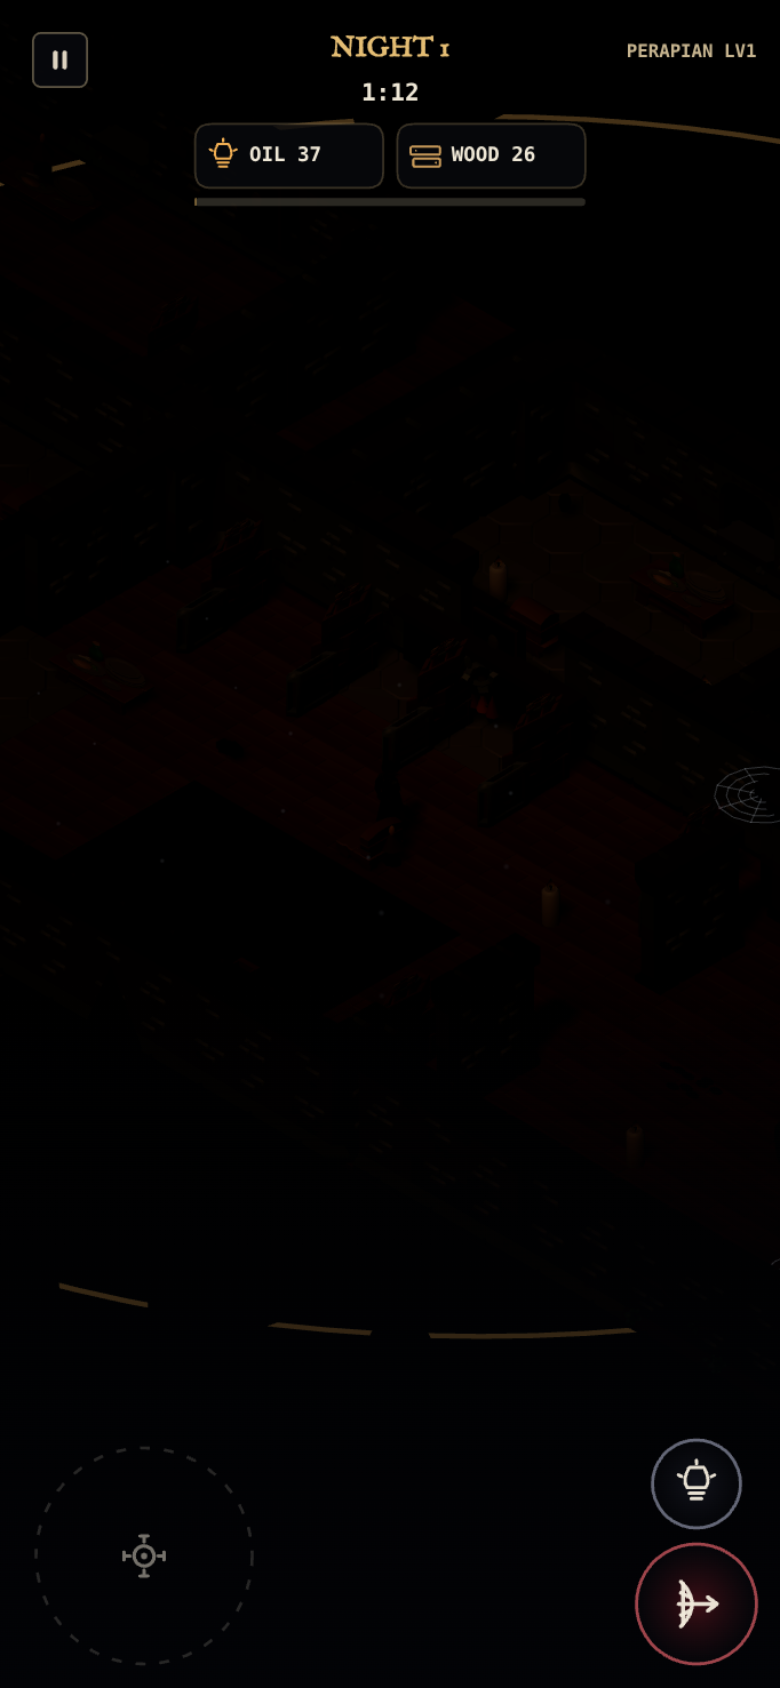
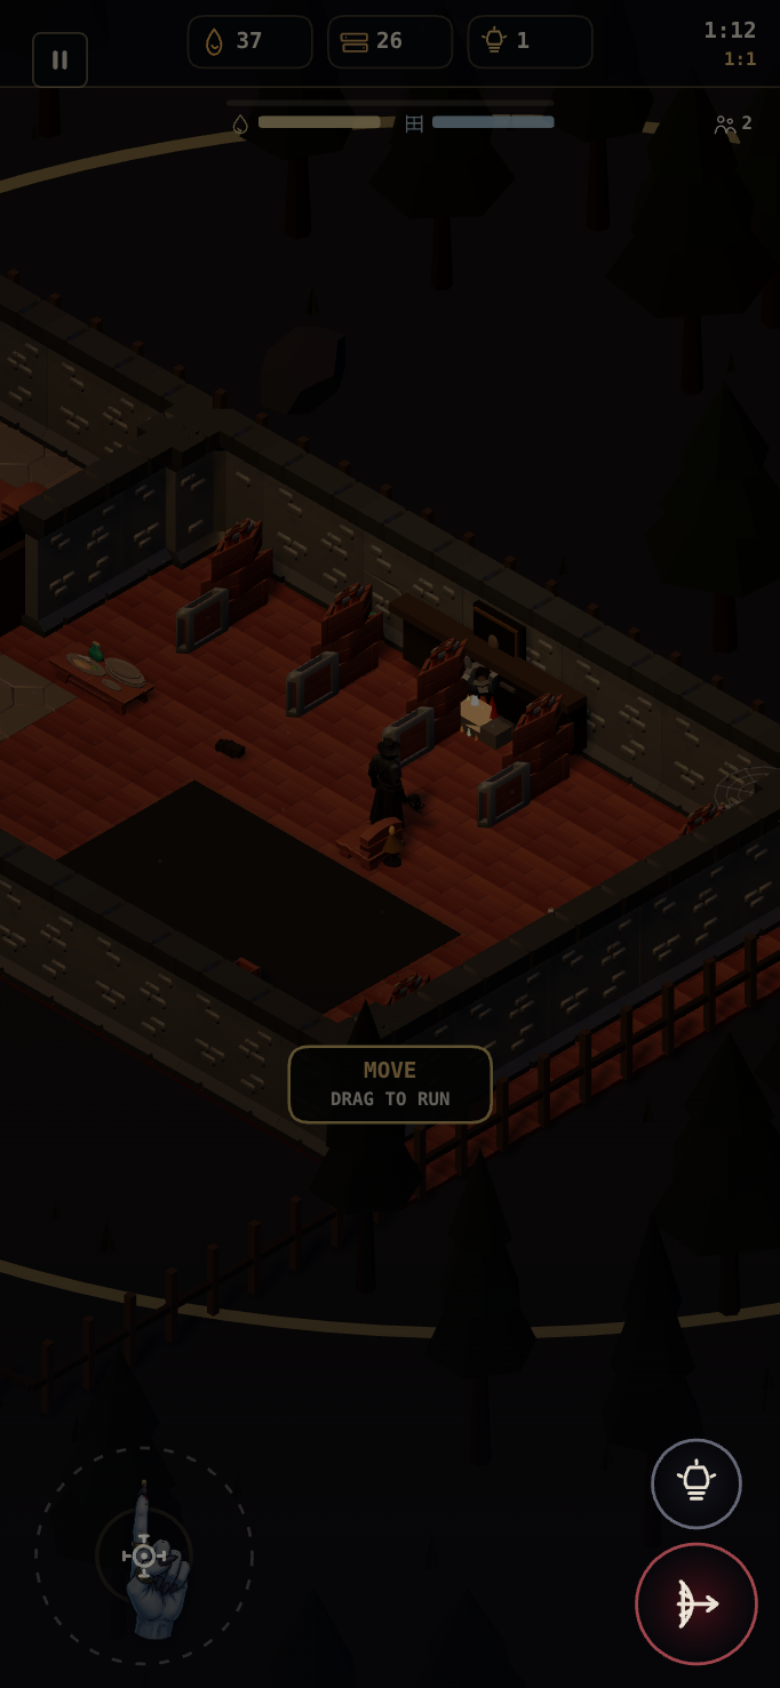
Lock Duskhold's story and prove dawn flips to day.
Night 1 now reaches Day 2 on the clock; buildings are jobs (oil still,
timber yard, sick ward, watch) instead of matching cottages. Frame
capture covers night, dawn, and a built lot.

diff --git a/src/game/survival.js b/src/game/survival.js
@@ -1,9 +1,18 @@
-/* LAST NIGHT — Milestone 1 survival-building loop
+/* DUSKHOLD — Milestone 1 survival-building loop
  *
- * This mode is deliberately isolated from the original hunt/night systems.
- * It keeps the existing Mansion, Player, CrowdBody, enemy damage hooks, Hunter
- * shot, GLB rigs, and 3D room/light pipeline, but owns its own day/phase save,
- * resources, builder queue, night waves, and rewards.
+ * STORY (the design the buildings and loop have to serve)
+ * You are the last Hearthkeeper of Duskhold, a plague-gutted asylum keep.
+ * The wardens fled. You stayed: lantern on the hip, repeating shot, one fire.
+ * The dead come at dusk. They fear only that light.
+ *
+ *   Night — hold the gate. Shoot, flare, feed oil. If you fall or the hearth
+ *           dies, the last light goes out.
+ *   Dawn  — the infected fall back and camp beyond the palisade. Grey day.
+ *           Walk the lot. Tap a plot. Raise what the keep actually needs.
+ *   Stake — three nights. Crew you shelter live or die with the fire.
+ *
+ * Buildings are jobs, not cottages: Oil Still (fuel), Timber Yard (palisade),
+ * Sick Ward (crew), Watch (eyes on the road), Hearth Keep, Gate.
  */
 
 import { clamp, damp, dist, rand, writeSave } from '../core/util.js';
@@ -23,9 +32,9 @@ const DOOR_LABELS = Object.freeze({
 });
 
 export const SURVIVAL_BUILDINGS = Object.freeze({
-  extractor: Object.freeze({ id: 'extractor', label: 'OIL PRESS', oil: 2, wood: 10, seconds: 7, produces: { oil: 6 } }),
-  sawmill: Object.freeze({ id: 'sawmill', label: 'LUMBER YARD', oil: 2, wood: 10, seconds: 7, produces: { wood: 7 } }),
-  shelter: Object.freeze({ id: 'shelter', label: 'CREW DORM', oil: 4, wood: 14, seconds: 9, produces: { survivors: 1 } }),
+  extractor: Object.freeze({ id: 'extractor', label: 'OIL STILL', oil: 2, wood: 10, seconds: 7, produces: { oil: 6 } }),
+  sawmill: Object.freeze({ id: 'sawmill', label: 'TIMBER YARD', oil: 2, wood: 10, seconds: 7, produces: { wood: 7 } }),
+  shelter: Object.freeze({ id: 'shelter', label: 'SICK WARD', oil: 4, wood: 14, seconds: 9, produces: { survivors: 1 } }),
   watch: Object.freeze({ id: 'watch', label: 'WATCH TOWER', oil: 4, wood: 12, seconds: 8 }),
 });
 
@@ -33,24 +42,24 @@ export const SURVIVAL_START_ROOMS = Object.freeze(['hall', 'library']);
 
 /** Adjacent plots the keep can grow into. A building both unlocks the room and gives it a job. */
 export const SURVIVAL_WINGS = Object.freeze([
-  Object.freeze({ roomId: 'dining', requires: Object.freeze(['hall']), label: 'DINING WING' }),
-  Object.freeze({ roomId: 'study', requires: Object.freeze(['hall']), label: 'STUDY' }),
-  Object.freeze({ roomId: 'oratory', requires: Object.freeze(['library']), label: 'CREW DORM' }),
-  Object.freeze({ roomId: 'kitchen', requires: Object.freeze(['dining']), label: 'KITCHEN' }),
-  Object.freeze({ roomId: 'basement', requires: Object.freeze(['hall']), label: 'CELLAR' }),
+  Object.freeze({ roomId: 'dining', requires: Object.freeze(['hall']), label: 'SICK WARD', accepts: Object.freeze(['shelter']) }),
+  Object.freeze({ roomId: 'study', requires: Object.freeze(['hall']), label: 'STUDY', accepts: Object.freeze(['shelter']) }),
+  Object.freeze({ roomId: 'oratory', requires: Object.freeze(['library']), label: 'CREW DORM', accepts: Object.freeze(['shelter']) }),
+  Object.freeze({ roomId: 'kitchen', requires: Object.freeze(['dining']), label: 'KITCHEN', accepts: Object.freeze(['shelter']) }),
+  Object.freeze({ roomId: 'basement', requires: Object.freeze(['hall']), label: 'OIL CELLAR', accepts: Object.freeze(['extractor']) }),
 ]);
 
-/** Outdoor Doomsday-style plots in front of the keep. Not rooms. */
+/** Outdoor jobs in front of the keep. One plot, one job. */
 export const SURVIVAL_YARD = Object.freeze([
   Object.freeze({
-    id: 'yard-lumber', name: 'LUMBER YARD', kind: 'yard',
+    id: 'yard-lumber', name: 'TIMBER YARD', kind: 'yard',
     x: -240, y: 700, w: 210, h: 170,
-    accepts: Object.freeze(['extractor', 'sawmill']),
+    accepts: Object.freeze(['sawmill']),
   }),
   Object.freeze({
-    id: 'yard-oil', name: 'OIL PRESS', kind: 'yard',
+    id: 'yard-oil', name: 'OIL STILL', kind: 'yard',
     x: 980, y: 700, w: 210, h: 170,
-    accepts: Object.freeze(['extractor', 'sawmill']),
+    accepts: Object.freeze(['extractor']),
   }),
   Object.freeze({
     id: 'yard-watch', name: 'WATCH', kind: 'yard',
@@ -537,7 +546,9 @@ export class SurvivalMode {
     const plot = this.plotById(roomId);
     if (!plot || this.buildings[plot.id]) return false;
     if (plot.kind === 'yard') return (plot.accepts || []).includes(type);
-    return type === 'extractor' || type === 'sawmill' || type === 'shelter';
+    const wing = SURVIVAL_WINGS.find((item) => item.roomId === plot.id);
+    if (wing && wing.accepts) return wing.accepts.includes(type);
+    return type === 'shelter';
   }
 
   _syncHouse() {
@@ -656,7 +667,7 @@ export class SurvivalMode {
     this.skillCooldown = Math.max(0, this.skillCooldown - dt);
     this.skillFlash = Math.max(0, this.skillFlash - dt);
     this.feedCd = Math.max(0, (this.feedCd || 0) - dt);
-    if (this.phase === 'night' && g.screen === 'playing' && !g.uiPanel) this.updateNight(dt);
+    if (this.phase === 'night' && g.screen === 'playing' && !g.paused) this.updateNight(dt);
     else if (this.phase === 'day' && g.screen === 'playing') this.updateDay(dt);
     else {
       g.mansion.update(dt, g);
@@ -1400,8 +1411,8 @@ export class SurvivalMode {
     this.wood = clamp(this.wood + wood, 0, RESOURCE_CAP);
     this.nightsCompleted = Math.min(3, this.nightsCompleted + 1);
     this.lastRewards = { oil, wood, kills: this.nightStats.kills, walls: this.nightStats.damageToWalls };
-    g.showMessage(`DAWN · +${Math.round(oil)} OIL · +${Math.round(wood)} WOOD · ${this.nightStats.kills} KILLS`, {
-      tone: 'gold', life: 4.4, key: 'survival-dawn',
+    g.showMessage(`DAWN. THE DEAD FALL BACK. +${Math.round(oil)} OIL · +${Math.round(wood)} WOOD`, {
+      tone: 'gold', life: 4.6, key: 'survival-dawn',
     });
     g.enemies.length = 0;
     g.bolts.length = 0;

diff --git a/src/game/world3d.js b/src/game/world3d.js
@@ -806,25 +806,27 @@ class World3DRuntime {
       group.add(mesh);
       return mesh;
     };
-    const house = (bw, bh, bd, roofH) => {
-      add(new THREE.BoxGeometry(bw + 16, 8, bd + 16), stone, 0, 4, 0);
-      add(new THREE.BoxGeometry(bw, bh, bd), timber, 0, 8 + bh / 2, 0);
-      add(new THREE.ConeGeometry(Math.max(bw, bd) * 0.72, roofH, 4), roof, 0, 8 + bh + roofH / 2, 0, 0, Math.PI / 4, 0);
-      add(new THREE.BoxGeometry(18, 34, 4), plank, 0, 25, bd / 2 + 1);
-    };
+    const linen = new THREE.MeshStandardMaterial({ color: 0x7a3a38, roughness: 1, flatShading: true });
     if (type === 'extractor') {
-      house(110, 58, 86, 42);
-      add(new THREE.CylinderGeometry(22, 26, 40, 10), oil, 48, 28, -8);
-      add(new THREE.CylinderGeometry(6, 8, 110, 6), iron, 48, 88, -8);
-      add(new THREE.BoxGeometry(8, 8, 54), iron, 48, 132, 8);
-      add(new THREE.BoxGeometry(64, 10, 10), iron, 18, 70, -8);
-      add(new THREE.BoxGeometry(14, 18, 6), warm, -22, 40, 44);
+      add(new THREE.BoxGeometry(58, 14, 58), stone, 0, 7, 0);
+      add(new THREE.BoxGeometry(48, 44, 48), stone, 0, 36, 0);
+      add(new THREE.CylinderGeometry(16, 18, 28, 10), oil, 0, 70, 0);
+      add(new THREE.TorusGeometry(16, 3.2, 6, 14), iron, 26, 62, 0, 0, 0, Math.PI / 2);
+      add(new THREE.CylinderGeometry(5, 7, 64, 6), iron, 0, 108, 0);
+      add(new THREE.CylinderGeometry(11, 13, 20, 10), oil, -38, 12, 18);
+      add(new THREE.CylinderGeometry(11, 13, 20, 10), oil, -38, 12, -16);
+      add(new THREE.CylinderGeometry(11, 13, 20, 10), oil, 38, 12, 14);
+      add(new THREE.BoxGeometry(22, 10, 14), stone, 0, 16, 32);
+      add(new THREE.BoxGeometry(10, 14, 6), warm, 0, 42, 26);
     } else if (type === 'sawmill') {
-      house(150, 54, 78, 38);
-      add(new THREE.CylinderGeometry(28, 28, 10, 14), iron, 78, 34, 0, 0, 0, Math.PI / 2);
-      add(new THREE.TorusGeometry(30, 4, 6, 16), iron, 78, 34, 0, 0, 0, Math.PI / 2);
-      for (let i = 0; i < 3; i++) add(new THREE.CylinderGeometry(9, 9, 52, 8), plank, -40 + i * 22, 14, 52, 0, 0, Math.PI / 2);
-      add(new THREE.BoxGeometry(16, 48, 16), stone, -58, 48, -10);
+      add(new THREE.BoxGeometry(96, 10, 44), plank, 0, 8, 0);
+      add(new THREE.BoxGeometry(14, 42, 14), timber, -42, 26, -14);
+      add(new THREE.BoxGeometry(14, 42, 14), timber, 42, 26, -14);
+      add(new THREE.BoxGeometry(98, 8, 12), timber, 0, 50, -14);
+      add(new THREE.CylinderGeometry(24, 24, 7, 16), iron, 34, 26, 16, 0, 0, Math.PI / 2);
+      add(new THREE.TorusGeometry(26, 3, 6, 16), iron, 34, 26, 16, 0, 0, Math.PI / 2);
+      for (let i = 0; i < 4; i++) add(new THREE.CylinderGeometry(7, 7, 52, 8), plank, -30 + i * 14, 10, 32, 0, 0, Math.PI / 2);
+      add(new THREE.BoxGeometry(46, 18, 16), timber, -18, 16, -4);
     } else if (type === 'watch') {
       add(new THREE.BoxGeometry(36, 12, 36), stone, 0, 6, 0);
       add(new THREE.BoxGeometry(28, 110, 28), timber, 0, 67, 0);
@@ -834,11 +836,17 @@ class World3DRuntime {
       add(new THREE.BoxGeometry(10, 22, 10), iron, -16, 148, 16);
       add(new THREE.BoxGeometry(10, 22, 10), iron, 16, 148, 16);
       add(new THREE.BoxGeometry(12, 18, 6), warm, 0, 92, 15);
+      add(new THREE.SphereGeometry(6.5, 8, 6), warm, 0, 158, 0);
     } else {
-      house(128, 62, 96, 48);
-      add(new THREE.BoxGeometry(16, 22, 6), warm, -28, 44, 49);
-      add(new THREE.BoxGeometry(16, 22, 6), warm, 28, 44, 49);
-      add(new THREE.BoxGeometry(14, 36, 14), stone, 44, 80, -18);
+      add(new THREE.BoxGeometry(148, 8, 72), stone, 0, 4, 0);
+      add(new THREE.BoxGeometry(136, 36, 58), timber, 0, 26, 0);
+      add(new THREE.BoxGeometry(148, 8, 72), roof, 0, 48, 0);
+      for (let i = -1; i <= 1; i++) {
+        add(new THREE.BoxGeometry(30, 7, 16), plank, i * 40, 10, 10);
+        add(new THREE.BoxGeometry(24, 4, 12), linen, i * 40, 15, 10);
+      }
+      add(new THREE.BoxGeometry(10, 14, 4), warm, 0, 28, 30);
+      add(new THREE.BoxGeometry(12, 26, 12), stone, 52, 38, -16);
     }
     group.traverse((item) => { if (item.isMesh) item.userData.survivalBuilding = type; });
     return group;
@@ -858,9 +866,11 @@ class World3DRuntime {
       group.add(mesh);
       return mesh;
     };
+    const ember = new THREE.MeshBasicMaterial({ color: 0xffc078, toneMapped: false });
     add(new THREE.BoxGeometry(70, 18, 48), stone, 0, 9, -8, 1);
     add(new THREE.BoxGeometry(18, 52, 18), stone, -28, 34, -14, 1);
     add(new THREE.BoxGeometry(18, 52, 18), stone, 28, 34, -14, 1);
+    add(new THREE.BoxGeometry(28, 22, 16), ember, 0, 22, 8, 1);
     add(new THREE.BoxGeometry(86, 36, 16), stone, 0, 26, -28, 2);
     add(new THREE.BoxGeometry(22, 90, 22), dark, 0, 64, -18, 3);
     add(new THREE.BoxGeometry(32, 10, 32), stone, 0, 112, -18, 3);

diff --git a/src/ui/icons.js b/src/ui/icons.js
@@ -256,8 +256,11 @@ export function drawGameIcon(ctx, name, x, y, size = 24, color = '#eee6d6') {
       }
       break;
     case 'shelter':
-      ctx.beginPath(); ctx.moveTo(0, -11); ctx.lineTo(10, -1); ctx.lineTo(10, 10); ctx.lineTo(-10, 10); ctx.lineTo(-10, -1); ctx.closePath(); ctx.stroke();
-      ctx.beginPath(); ctx.rect(-3, 3, 6, 7); ctx.stroke();
+      ctx.beginPath(); ctx.roundRect(-11, -2, 22, 12, 1.5); ctx.stroke();
+      for (const px of [-6, 0, 6]) {
+        ctx.beginPath(); ctx.moveTo(px - 3, 2); ctx.lineTo(px - 3, 8); ctx.lineTo(px + 3, 8); ctx.lineTo(px + 3, 2); ctx.stroke();
+      }
+      ctx.beginPath(); ctx.moveTo(-8, -2); ctx.lineTo(-8, -8); ctx.lineTo(0, -11); ctx.lineTo(8, -8); ctx.lineTo(8, -2); ctx.stroke();
       break;
     case 'gate':
       ctx.beginPath(); ctx.moveTo(-9, 10); ctx.lineTo(-9, -10); ctx.moveTo(9, 10); ctx.lineTo(9, -10); ctx.stroke();

diff --git a/src/ui/survival.js b/src/ui/survival.js
@@ -166,7 +166,7 @@ function drawTopDock(game, ctx, w, h) {
     const wave = Math.min(3, Math.max(1, mode.waveIndex || (mode.incoming && mode.incoming.kind === 'swarm' ? mode.incoming.wave : 1)));
     text(ctx, `${mode.day}:${mode.waveIndex >= 3 ? 3 : wave}`, w - 12, 30, 9, AMBER, 'right');
   } else {
-    text(ctx, String(mode.day), w - 14, 22, 14, AMBER, 'right', SERIF);
+    text(ctx, `DAWN ${mode.day}`, w - 14, 22, 11, AMBER, 'right', SERIF);
   }
 }
 
@@ -351,7 +351,7 @@ function drawDayPanel(game, ctx, w, h) {
   });
 
   if (!busy && !mode.buildMenuOpen) {
-    drawLessonChip(ctx, w, h, 'TAP A PLOT', 'THEN CHOOSE WHAT TO BUILD');
+    drawLessonChip(ctx, w, h, 'TAP A PLOT', 'RAISE WHAT THE KEEP NEEDS');
   }
 
   if (mode.buildMenuOpen && !busy) {

diff --git a/sw.js b/sw.js
@@ -21,7 +21,7 @@
  * — the old cache is dropped on activate.
  */
 
-const VERSION = 'duskhold-v9';
+const VERSION = 'duskhold-v10';
 const CACHE = VERSION;
 
 /* The shell: what has to be there for the first paint on a cold start.
